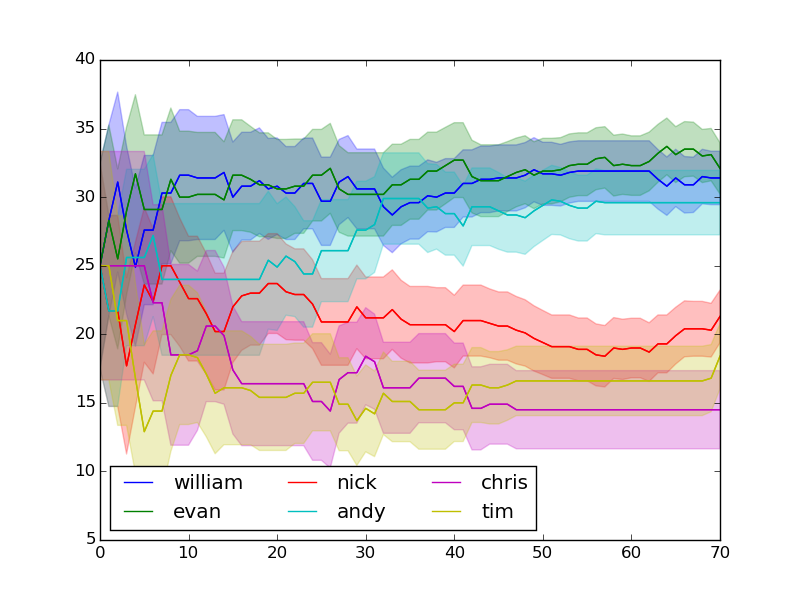
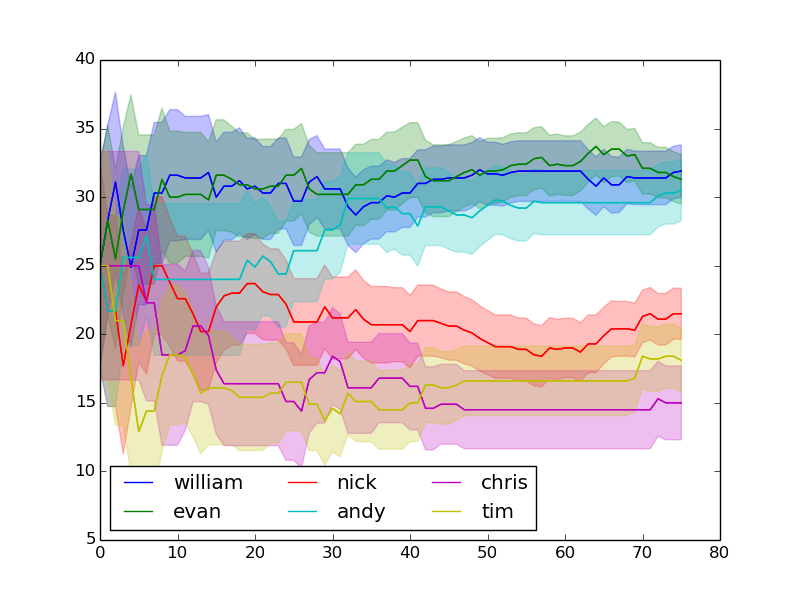
another week another commit where i forgot what i did. started heuristics.

diff --git a/ladder/static/part.html b/ladder/static/part.html
@@ -1,25 +1,25 @@
 Trueskill ladder ranked on mu - 3*sigma (P(skill>level)~0.99)<br>
 <table border="1">
 <tr><td>rank</td><td>name</td><td>change</td><td>lvl</td><td>mu</td><td>sigma</td></tr>
-<tr><td>1</td><td>william</td><td>0</td><td>26</td><td>32.1</td><td>1.87</td></tr>
-<tr><td>2</td><td>nick</td><td>0</td><td>25</td><td>31.4</td><td>1.95</td></tr>
-<tr><td>3</td><td>andy</td><td>0</td><td>22</td><td>29.6</td><td>2.35</td></tr>
-<tr><td>4</td><td>rowan</td><td>0</td><td>22</td><td>36.1</td><td>4.66</td></tr>
-<tr><td>5</td><td>tet</td><td>0</td><td>17</td><td>35.7</td><td>6.07</td></tr>
-<tr><td>6</td><td>evan</td><td>0</td><td>15</td><td>21.5</td><td>1.91</td></tr>
+<tr><td>1</td><td>nick</td><td>0</td><td>26</td><td>31.9</td><td>1.91</td></tr>
+<tr><td>2</td><td>william</td><td>0</td><td>26</td><td>31.5</td><td>1.79</td></tr>
+<tr><td>3</td><td>andy</td><td>0</td><td>24</td><td>30.7</td><td>2.2</td></tr>
+<tr><td>4</td><td>rowan</td><td>0</td><td>23</td><td>37.2</td><td>4.53</td></tr>
+<tr><td>5</td><td>tet</td><td>0</td><td>16</td><td>33.9</td><td>5.78</td></tr>
+<tr><td>6</td><td>evan</td><td>0</td><td>15</td><td>21.3</td><td>1.84</td></tr>
 <tr><td>7</td><td>celine</td><td>0</td><td>13</td><td>27.6</td><td>4.76</td></tr>
-<tr><td>8</td><td>chris</td><td>0</td><td>11</td><td>18.2</td><td>2.36</td></tr>
-<tr><td>9</td><td>chrismc</td><td>0</td><td>10</td><td>28.8</td><td>6.23</td></tr>
-<tr><td>10</td><td>keith</td><td>0</td><td>8</td><td>18.9</td><td>3.36</td></tr>
-<tr><td>11</td><td>adam</td><td>0</td><td>8</td><td>17.2</td><td>2.94</td></tr>
-<tr><td>12</td><td>mark</td><td>0</td><td>6</td><td>15.5</td><td>2.93</td></tr>
-<tr><td>13</td><td>yen</td><td>0</td><td>6</td><td>28.8</td><td>7.6</td></tr>
-<tr><td>14</td><td>tim</td><td>0</td><td>5</td><td>14.5</td><td>2.85</td></tr>
+<tr><td>8</td><td>chris</td><td>0</td><td>11</td><td>18.1</td><td>2.24</td></tr>
+<tr><td>9</td><td>yen</td><td>5</td><td>10</td><td>31.6</td><td>7.02</td></tr>
+<tr><td>10</td><td>chrismc</td><td>-1</td><td>10</td><td>28.8</td><td>6.23</td></tr>
+<tr><td>11</td><td>keith</td><td>-1</td><td>8</td><td>18.5</td><td>3.28</td></tr>
+<tr><td>12</td><td>adam</td><td>-1</td><td>7</td><td>15.9</td><td>2.78</td></tr>
+<tr><td>13</td><td>tim</td><td>-1</td><td>7</td><td>15.0</td><td>2.6</td></tr>
+<tr><td>14</td><td>mark</td><td>-1</td><td>6</td><td>15.5</td><td>2.93</td></tr>
 <tr><td>15</td><td>claire</td><td>0</td><td>0</td><td>22.5</td><td>7.46</td></tr>
 <tr><td>16</td><td>paul</td><td>0</td><td>0</td><td>25.0</td><td>8.33</td></tr>
 <tr><td>17</td><td>carlos</td><td>0</td><td>0</td><td>25.0</td><td>8.33</td></tr>
-<tr><td>18</td><td>jiaquan</td><td>0</td><td>0</td><td>22.6</td><td>7.79</td></tr>
-<tr><td>19</td><td>james</td><td>0</td><td>0</td><td>22.6</td><td>7.79</td></tr>
+<tr><td>18</td><td>james</td><td>1</td><td>0</td><td>22.6</td><td>7.79</td></tr>
+<tr><td>19</td><td>jiaquan</td><td>-1</td><td>-1</td><td>19.7</td><td>7.17</td></tr>
 </table>
 
-<p>Game history: <br>1: Game: andy evan draw nick william<br>2: Game: nick william beat andy evan<br>3: Game: mark nick beat chris william<br>4: Game: evan nick lost william andy<br>5: Game: evan william beat nick chris<br>6: Game: evan nick beat chris william<br>7: Game: evan tim draw andy chris<br>8: Game: evan nick beat andy mark<br>9: Game: william chris beat celine tim<br>10: Game: nick chris draw evan william<br>11: Game: yen rowan beat mark evan<br>12: Game: william tim draw nick chris<br>13: Game: tim rowan beat evan chris<br>14: Game: mark celine beat evan chris<br>15: Game: william tim draw chris nick<br>16: Game: william evan beat nick tim<br>17: Game: nick evan beat keith tim<br>18: Game: keith evan draw william chris<br>19: Game: nick rowan beat william chris<br>20: Game: nick mark draw andy evan<br>21: Game: william andy draw mark nick<br>22: Game: keith andy draw evan nick<br>23: Game: andy evan draw chris william<br>24: Game: nick keith beat andy mark<br>25: Game: william chris beat evan tim<br>26: Game: andy celine beat evan nick<br>27: Game: william mark beat keith tim<br>28: Game: tim nick beat william chris<br>29: Game: mark william draw tim nick<br>30: Game: evan andy beat chris nick<br>31: Game: evan adam draw tim chris<br>32: Game: andy adam beat tim chris<br>33: Game: andy chris beat nick tim<br>34: Game: evan william beat chris nick<br>35: Game: nick adam beat evan keith<br>36: Game: william nick beat evan celine<br>37: Game: tim tet beat chris mark<br>38: Game: nick william beat andy keith<br>39: Game: evan nick draw andy mark<br>40: Game: nick william beat andy keith<br>41: Game: evan tim lost william chris<br>42: Game: evan nick beat mark andy<br>43: Game: andy chris beat william tim<br>44: Game: nick rowan beat william keith<br>45: Game: evan chris draw mark tim<br>46: Game: rowan nick beat evan andy<br>47: Game: william chris draw andy adam<br>48: Game: william chris beat tim evan<br>49: Game: william nick beat evan andy<br>50: Game: andy nick beat evan william<br>51: Game: william andy beat nick evan<br>52: Game: keith andy beat adam evan<br>53: Game: nick andy draw celine william<br>54: Game: william nick beat keith andy<br>55: Game: william nick beat evan andy<br>56: Game: rowan chrismc beat jiaquan james<br>57: Game: william andy beat evan rowan<br>58: Game: evan andy lost rowan william<br>59: Game: evan tet beat william adam<br>60: Game: william keith beat evan adam<br>61: Game: evan chrismc draw william adam<br>62: Game: evan adam lost tet william<br>63: Game: evan keith lost william adam<br>64: Game: evan william beat mark nick<br>65: Game: adam william beat keith nick<br>66: Game: evan nick beat mark william<br>67: Game: william evan beat nick adam<br>68: Game: evan nick draw william adam<br>69: Game: william mark lost nick adam<br>70: Game: william chris draw evan nick<br>71: Game: evan chris beat william adam<br>72: Game: evan rowan beat claire chris<br>
+<p>Game history: <br>1: Game: andy evan draw nick william<br>2: Game: nick william beat andy evan<br>3: Game: mark nick beat chris william<br>4: Game: evan nick lost william andy<br>5: Game: evan william beat nick chris<br>6: Game: evan nick beat chris william<br>7: Game: evan tim draw andy chris<br>8: Game: evan nick beat andy mark<br>9: Game: william chris beat celine tim<br>10: Game: nick chris draw evan william<br>11: Game: yen rowan beat mark evan<br>12: Game: william tim draw nick chris<br>13: Game: tim rowan beat evan chris<br>14: Game: mark celine beat evan chris<br>15: Game: william tim draw chris nick<br>16: Game: william evan beat nick tim<br>17: Game: nick evan beat keith tim<br>18: Game: keith evan draw william chris<br>19: Game: nick rowan beat william chris<br>20: Game: nick mark draw andy evan<br>21: Game: william andy draw mark nick<br>22: Game: keith andy draw evan nick<br>23: Game: andy evan draw chris william<br>24: Game: nick keith beat andy mark<br>25: Game: william chris beat evan tim<br>26: Game: andy celine beat evan nick<br>27: Game: william mark beat keith tim<br>28: Game: tim nick beat william chris<br>29: Game: mark william draw tim nick<br>30: Game: evan andy beat chris nick<br>31: Game: evan adam draw tim chris<br>32: Game: andy adam beat tim chris<br>33: Game: andy chris beat nick tim<br>34: Game: evan william beat chris nick<br>35: Game: nick adam beat evan keith<br>36: Game: william nick beat evan celine<br>37: Game: tim tet beat chris mark<br>38: Game: nick william beat andy keith<br>39: Game: evan nick draw andy mark<br>40: Game: nick william beat andy keith<br>41: Game: evan tim lost william chris<br>42: Game: evan nick beat mark andy<br>43: Game: andy chris beat william tim<br>44: Game: nick rowan beat william keith<br>45: Game: evan chris draw mark tim<br>46: Game: rowan nick beat evan andy<br>47: Game: william chris draw andy adam<br>48: Game: william chris beat tim evan<br>49: Game: william nick beat evan andy<br>50: Game: andy nick beat evan william<br>51: Game: william andy beat nick evan<br>52: Game: keith andy beat adam evan<br>53: Game: nick andy draw celine william<br>54: Game: william nick beat keith andy<br>55: Game: william nick beat evan andy<br>56: Game: rowan chrismc beat jiaquan james<br>57: Game: william andy beat evan rowan<br>58: Game: evan andy lost rowan william<br>59: Game: evan tet beat william adam<br>60: Game: william keith beat evan adam<br>61: Game: evan chrismc draw william adam<br>62: Game: evan adam lost tet william<br>63: Game: evan keith lost william adam<br>64: Game: evan william beat mark nick<br>65: Game: adam william beat keith nick<br>66: Game: evan nick beat mark william<br>67: Game: william evan beat nick adam<br>68: Game: evan nick draw william adam<br>69: Game: william mark lost nick adam<br>70: Game: william chris draw evan nick<br>71: Game: evan chris beat william adam<br>72: Game: evan rowan beat claire chris<br>73: Game: andy tim draw william evan<br>74: Game: chris andy beat keith tim<br>75: Game: evan nick beat william adam<br>76: Game: nick andy beat william chris<br>77: Game: andy chris beat evan tim<br>78: Game: william tim beat chris adam<br>79: Game: yen rowan beat jiaquan tet<br>

diff --git a/ladder/static/header.html b/ladder/static/header.html
@@ -5,10 +5,10 @@
 </head>
 <body>
 <script src="static/jquery-2.1.4.min.js"></script>
+<link rel="icon" href="static/favicon.ico">
 <style type="text/css">
 .centre
 {
 text-align:center
 }
 </style>
-

diff --git a/ladder/heuristics.py b/ladder/heuristics.py
@@ -1,0 +1,98 @@
+class Heuristic(object):
+
+    """
+    interface for heuristic
+    rate returns 0->1, 1 is good.
+    """
+
+    def __init__(self, arg):
+        pass
+
+    def rate(self, team_a, team_b):
+        pass
+
+    def rate_all(self, games_iterator):
+        return [(self.rate(g[0], g[1]), (g[0], g[1])) for g in games_iterator]
+
+
+class DrawChanceHeuristic(Heuristic):
+
+    """microsoft style"""
+
+    def __init__(self, ladder):
+        self.ladder = ladder
+
+    def rate(self, team_a, team_b):
+        pass
+
+
+class LadderDisruptionHeuristic(Heuristic):
+
+    """andy style"""
+
+    def __init__(self, ladder):
+        self.ladder = ladder
+
+    def rate(self, team_a, team_b):
+        pass
+
+
+class TrueskillClumpingHeuristic(Heuristic):
+
+    """Prefer similar skills"""
+
+    def __init__(self, ladder):
+        self.ladder = ladder
+
+    def rate(self, team_a, team_b):
+        pass
+
+
+class SigmaReductionHeuristic(Heuristic):
+
+    """Try to reduce sigmas"""
+
+    def __init__(self, ladder):
+        self.ladder = ladder
+
+    def rate(self, team_a, team_b):
+        pass
+
+
+class TimeSinceLastPlayedHeuristic(Heuristic):
+
+    """Prefer not recent players"""
+
+    def __init__(self, ladder):
+        self.ladder = ladder
+
+    def rate(self, team_a, team_b):
+        pass
+
+
+class UnplayedMatchups(Heuristic):
+
+    """Nick style"""
+
+    def __init__(self, ladder):
+        self.ladder = ladder
+
+    def rate(self, team_a, team_b):
+        pass
+
+
+
+if __name__ == '__main__':
+    import kicker_backend
+    import kicker_ladders
+    data = kicker_backend.KickerData()
+    players, games = data.get_players_games()
+
+    pre_ladder = kicker_ladders.TrueSkillLadder()
+    pre_data = pre_ladder.process(players, games)
+
+    all_games = kicker_backend.all_games(players)
+
+    DrawChanceHeuristic(pre_ladder)
+
+

diff --git a/ladder/graph.py b/ladder/graph.py
@@ -34,7 +34,7 @@ def graph_ranks(p, g, ladder):
         return ret
 
     graph_data = []
-    for i in range(1, len(g)):
+    for i in range(1, len(g) + 1):
         data = ladder.process(p, g[0:i])
         graph_data.append(get_names_ranks(data))
 
@@ -52,7 +52,7 @@ def graph_level(p, g, ladder):
         return ret
 
     graph_data = []
-    for i in range(1, len(g)):
+    for i in range(1, len(g) + 1):
         data = ladder.process(p, g[0:i])
         graph_data.append(get_names_lvl(data))
 
@@ -73,7 +73,7 @@ def graph_skill(p, g, ladder):
         return ret
 
     graph_data = []
-    for i in range(1, len(g)):
+    for i in range(1, len(g) + 1):
         data = ladder.process(p, g[0:i])
         graph_data.append(get_names_skill(data))
 
@@ -103,7 +103,7 @@ def graph_skill_error(p, g, ladder):
 
     graph_data = []
     err_data = []
-    for i in range(1, len(g)):
+    for i in range(1, len(g) + 1):
         data = ladder.process(p, g[0:i])
         graph_data.append(get_names_skill(data))
         err_data.append(get_names_err(data))

diff --git a/ladder/kicker_backend.py b/ladder/kicker_backend.py
@@ -5,6 +5,17 @@ import fcntl
 
 LOG_FILE = os.path.join(os.path.dirname(__file__), 'kicker.log')
 
+def all_games(players, game_filter):
+            seen_games = set()
+            for team_a in itertools.combinations(players.keys(), 2):
+                for team_b in itertools.combinations(players.keys(), 2):
+                    if team_a + team_b in seen_games \
+                            or team_b + team_a in seen_games \
+                            or len([True for p in team_b if p in team_a]) > 0:
+                        continue
+                    seen_games.add(team_a + team_b)
+                    if game_filter(team_a + team_b):
+                        yield team_a, team_b
 
 class LockFile(object):
     def __init__(self, file_obj):
